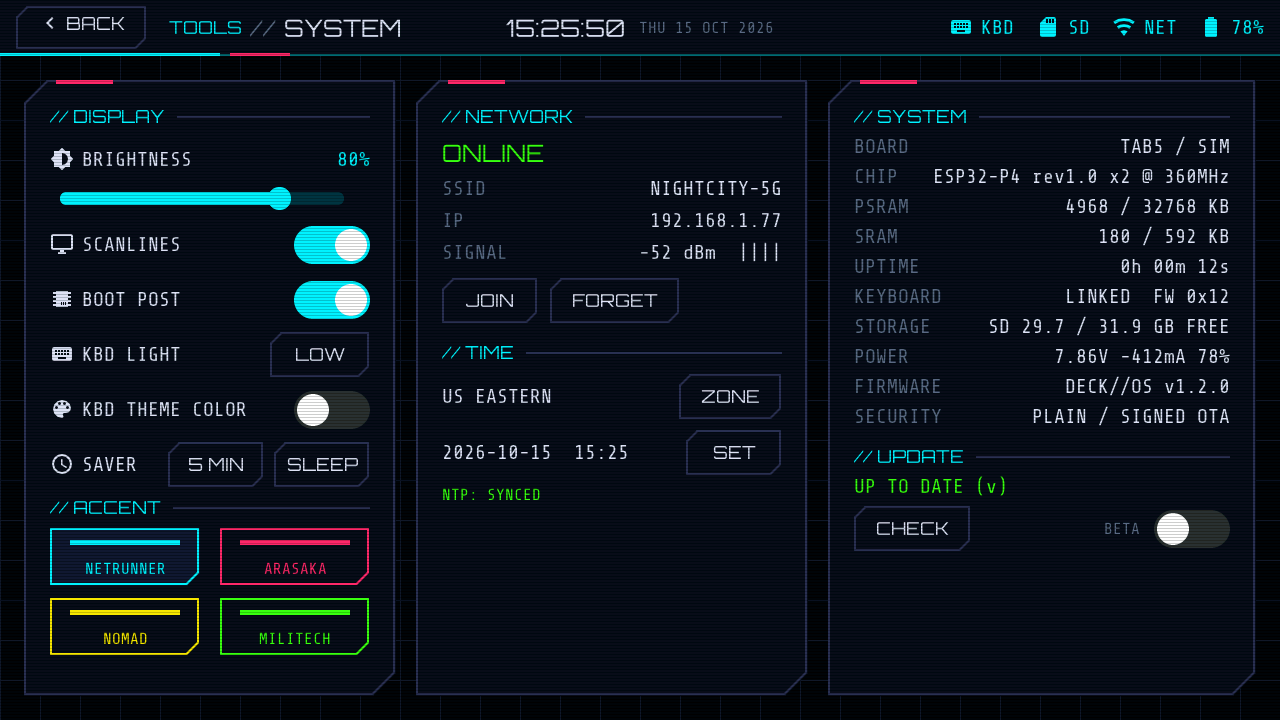
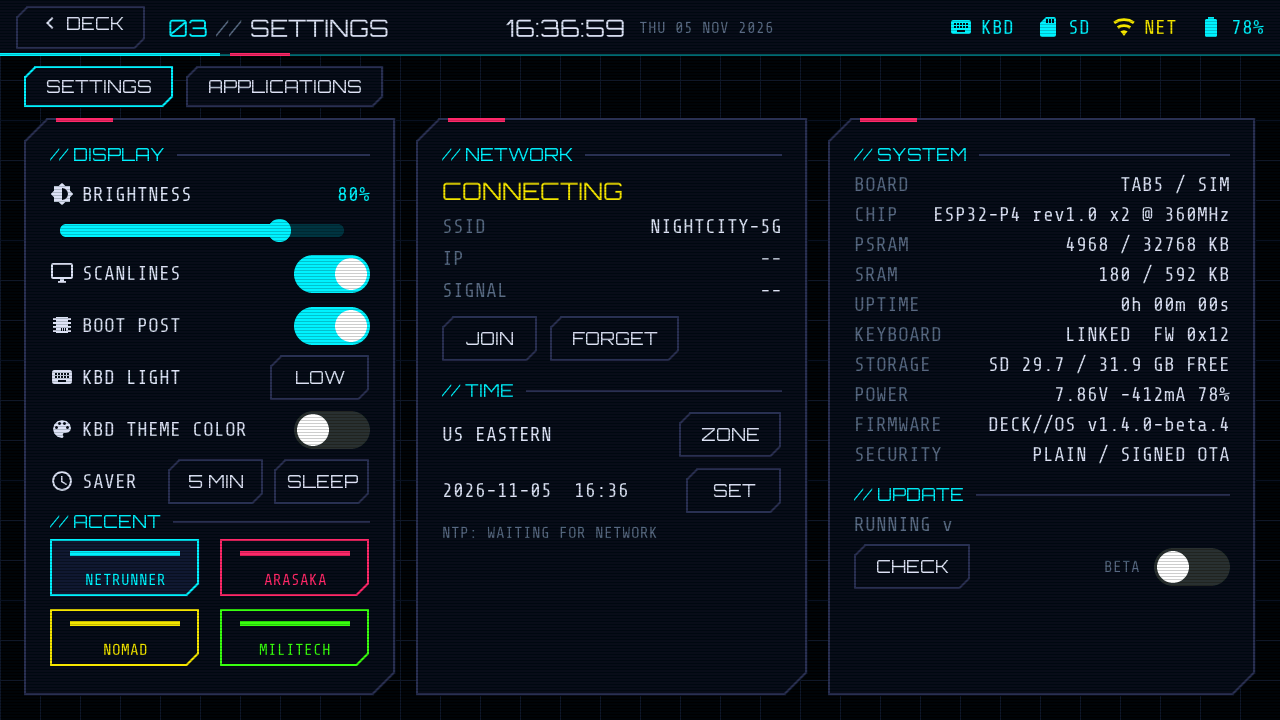
Docs: new home, APPS and APPLICATIONS
README and ROADMAP for v1.5, new screenshots (home, apps, applications,
settings), group screenshots removed, tools/check.sh documented. Sim
screenshots convert with sips, so tools/ppm2png.py goes.

diff --git a/README.md b/README.md
@@ -7,9 +7,9 @@ weather, a music player and a file manager with a LAN portal.
 
 ![Home](docs/screenshots/home.png)
 
-| Boot POST | System module | Scheduled module |
+| Boot POST | Settings | Scheduled module |
 |---|---|---|
-| ![Boot](docs/screenshots/boot.png) | ![System](docs/screenshots/system.png) | ![Offline module](docs/screenshots/module_offline.png) |
+| ![Boot](docs/screenshots/boot.png) | ![Settings](docs/screenshots/system.png) | ![Offline module](docs/screenshots/module_offline.png) |
 
 ## Status: v1.3.0
 
@@ -17,9 +17,22 @@ Seven modules: TERMINAL (SSH and Ollama chat), NOTES (markdown), CALC, WEATHER, 
 (music), FILES (file manager and LAN portal) and SYSTEM. It updates itself over
 Wi-Fi with signed builds and tells you when a new one is out.
 
-**Next (on main): NET TOOLS.** The NET TOOLS tile became a **WIRELESS**
-group holding NET TOOLS, the Tab5's own radio as a toolkit, and RF WATCH, a
-placeholder for the RF Sentinel M5-Bus board. NET TOOLS has four tabs: **SCAN**
+**Next (v1.5): app toggles and a cleaner home.** The home screen is a live
+panel plus six fixed tiles: TERMINAL, NOTES, SETTINGS, CALC, FILES and APPS.
+Tiles carry only an icon, a name and their `Alt+letter`. The panel shows live
+sections from apps that have one (WEATHER today; tap a section to open the
+app). APPS holds the optional apps (WEATHER, PLAYER, NET TOOLS, RF WATCH),
+each in a fixed slot. SETTINGS (formerly SYSTEM) has an **APPLICATIONS** tab
+with a switch per optional app: a switched-off app is greyed in APPS, does no
+background work and ignores its shortcut; tapping its tile opens the switch.
+The first greyed tile carries a quiet "enable in settings" hint.
+
+| Home | APPS | SETTINGS > APPLICATIONS |
+|---|---|---|
+| ![Home](docs/screenshots/home.png) | ![Apps](docs/screenshots/apps.png) | ![Applications](docs/screenshots/applications.png) |
+
+**v1.4: NET TOOLS**, the Tab5's own radio as a toolkit (in APPS), next to
+RF WATCH, a placeholder for the RF Sentinel M5-Bus board. NET TOOLS has four tabs: **SCAN**
 (every access point in earshot, one row per BSSID with channel, security and
 signal, and a chart of the strongest signal on each 2.4 GHz channel), **PING**
 (ping, DNS, traceroute and a TCP port check for a host you type), **LAN** (a
@@ -33,13 +46,8 @@ TOOLS (TERMINAL, CALC, SYSTEM) and FILES & MEDIA (FILES, PLAYER) are groups:
 the tile lists what is inside and opens a screen of the same tiles. NET TOOLS
 arrives in v1.4 (below). NOTES stays a tile of its own, and WEATHER is a
 widget: current temperature, conditions, location and today's range right on
-the home screen, tap for the full forecast. `Alt+1..5` opens a home tile,
-`Alt+T N C W M F S` jumps to a module from anywhere, `Esc` goes back one
-level and the status bar shows the path (`TOOLS // TERMINAL`).
-
-| Home | TOOLS | FILES & MEDIA |
-|---|---|---|
-| ![Home](docs/screenshots/home.png) | ![Tools](docs/screenshots/tools.png) | ![Files & Media](docs/screenshots/media.png) |
+the home screen, tap for the full forecast. (v1.5 replaces the groups with
+the fixed home and APPS above.)
 
 **Obsidian vault sync (v1.3):** NOTES has two sources, LOCAL (the deck's
 own `/notes`) and VAULT (`/vault`, an Obsidian vault kept in sync with
@@ -194,9 +202,9 @@ flash when moving from v0.1.
 
 - Boot POST that reports real hardware state (keyboard, SD, RTC, battery); tap or any key skips it
 - HUD status bar: clock, keyboard link, SD, network, battery
-- Launcher with five large touch tiles, keyboard navigation and a live system ticker
+- Launcher: a live panel and six large touch tiles, optional apps under APPS, keyboard navigation and a live system ticker
 - Glitch transitions, optional CRT scanlines, four accent themes (NETRUNNER, ARASAKA, NOMAD, MILITECH)
-- **SYSTEM** module: brightness, scanlines, boot sequence, accent, RTC clock setting, live hardware readout
+- **SETTINGS** module: an APPLICATIONS tab to switch optional apps on and off; brightness, scanlines, boot sequence, accent, RTC clock setting, live hardware readout
 - TERMINAL is a placeholder until v0.7 that show their planned features until their version lands
 
 See [ROADMAP.md](ROADMAP.md) for v0.2 onward.
@@ -205,24 +213,26 @@ See [ROADMAP.md](ROADMAP.md) for v0.2 onward.
 
 | Keys | Action |
 |---|---|
-| `Alt+1..5` | Open home tile 01..05 (a module or a group) |
-| `Alt+T` `N` `C` `W` `M` `F` `S` | Jump to TERMINAL, NOTES, CALC, WEATHER, PLAYER (music), FILES or SYSTEM from anywhere |
+| `Alt+1..6` | Open home tile 01..06 |
+| `Alt+A` | Open APPS |
+| `Alt+T` `N` `S` `C` `F` | Jump to TERMINAL, NOTES, SETTINGS, CALC or FILES from anywhere |
+| `Alt+W` `M` `R` `X` | Jump to WEATHER, PLAYER (music), NET TOOLS or RF WATCH, while switched on |
 | `Alt+Esc` | Return to the deck from anywhere (reserved for when SSH owns `Esc`) |
-| `Alt+0`, tap the clock, or SYSTEM > SAVER > SLEEP | Sleep the screen (backlight and keyboard light off); any key or touch wakes it |
-| (idle) | After SYSTEM > SAVER minutes (default 5) a drifting clock takes over, dimmed; 10 minutes later the screen sleeps. Any key or touch wakes it |
+| `Alt+0`, tap the clock, or SETTINGS > SAVER > SLEEP | Sleep the screen (backlight and keyboard light off); any key or touch wakes it |
+| (idle) | After SETTINGS > SAVER minutes (default 5) a drifting clock takes over, dimmed; 10 minutes later the screen sleeps. Any key or touch wakes it |
 | `Alt+H`, or tap the hint on the home screen | List every shortcut |
-| `Alt+P` | Pause or resume music from anywhere |
-| `Esc` or `Del` | Back / close, or up one level (a module to its group, a group to the deck) if the module does not use it. `Del` still deletes inside a text field, and deletes the selected item in NOTES, FILES and TERMINAL |
-| `Left` `Right` `Enter`, or `1..5` | Pick a tile on the home screen or in a group |
+| `Alt+P` | Pause or resume music from anywhere (while PLAYER is on) |
+| `Esc` or `Del` | Back / close, or up one level (an app to APPS, APPS to the deck) if the module does not use it. `Del` still deletes inside a text field, and deletes the selected item in NOTES, FILES and TERMINAL |
+| Arrows, `Enter`, or `1..6` | Pick a tile on the home screen or in APPS |
 | `Tab`, arrows | Move focus inside a module |
 
-Everything is also reachable by touch: tiles, the `< DECK` / `< TOOLS` back button and on-screen controls.
+Everything is also reachable by touch: tiles, panel sections, the `< DECK` back button and on-screen controls.
 
 ## Install from the browser
 
 [**hey-its-brian.github.io/tab5-cyberdeck**](https://hey-its-brian.github.io/tab5-cyberdeck/): plug the
 Tab5 in over USB-C, click INSTALL in Chrome or Edge. After that, updates come
-over Wi-Fi (SYSTEM > UPDATE).
+over Wi-Fi (SETTINGS > UPDATE).
 
 ![Web flasher](docs/screenshots/web_flasher.png)
 
@@ -232,7 +242,7 @@ over Wi-Fi (SYSTEM > UPDATE).
   NVS). On its first boot, v0.7.1 or later generates a random key, burns it into
   one free eFuse key block, and moves the existing settings over. This is the
   only eFuse change. It does not restrict flashing, and if anything goes wrong the deck
-  falls back to plain settings rather than failing to boot. SYSTEM > SECURITY
+  falls back to plain settings rather than failing to boot. SETTINGS > SECURITY
   shows which mode is active.
 - **Updates are signed.** A deck running a signed build only installs
   over-the-air updates signed with the same key (RSA-3072). Nothing is
@@ -311,7 +321,17 @@ Headless mode renders scripted screenshots on a virtual clock:
 `--key MS:SPEC` (e.g. `esc`, `enter`, `left`, `a`, `alt+2`, `ctrl+s`), `--tap MS:X,Y` and
 `--shot MS:FILE.ppm` can repeat; `--set KEY=VALUE` seeds a setting (for example
 `--set wx_name=Raleigh --set wx_lat=35.78 --set wx_lon=-78.64` gives the WEATHER
-widget a location). Convert with `sips -s format png in.ppm --out out.png`.
+widget a location), `--stub-apps N` adds placeholder optional apps to check
+the APPS grid, and `--realtime` runs on the wall clock (for real network
+fetches). Convert with `sips -s format png in.ppm --out out.png`.
+
+Every check that needs no hardware runs in one command, printing one line per
+stage and PASS or FAIL (full output in `sim/build/check.log`):
+
+```bash
+tools/check.sh             # simulator build and host unit tests
+tools/check.sh --firmware  # also builds the ESP-IDF firmware
+```
 
 The portal's browser side runs on the Mac too: `tools/portal_mock.py` serves
 the real page backed by `sim/sdcard` at `http://127.0.0.1:8080` (PIN `271828`,

diff --git a/ROADMAP.md b/ROADMAP.md
@@ -164,6 +164,16 @@ Home screen first, then the two modules, one at a time.
 - [x] Memory: LVGL widgets, parsed JSON and the sync's connection no longer starve internal RAM (one kept TLS connection, 40 KB sync stack, allocators on PSRAM)
 - [x] Del doubles as a back key
 
+## v1.5: App toggles and a cleaner home
+
+- [x] Apps are core (TERMINAL, NOTES, SETTINGS, CALC, FILES) or optional (WEATHER, PLAYER, NET TOOLS, RF WATCH); an optional app's on/off state is saved as `app_<id>`, and a switched-off app runs no background work and ignores its shortcut
+- [x] Home: a live panel (sections from enabled apps, WEATHER today) and six fixed tiles with just an icon, a name and the Alt+letter; the status bar, grid, header and ticker stay as they were
+- [x] APPS: every optional app in a fixed slot (3x2, or 4x3 past six); switched-off apps greyed, the first one with a quiet "enable in settings" hint; tapping a greyed tile opens its switch
+- [x] SETTINGS (was SYSTEM): SETTINGS | APPLICATIONS tabs, a switch per optional app, CORE apps listed
+- [x] Shortcuts: Alt+1..6 for the home tiles, Alt+A for APPS, RF WATCH moves to Alt+X
+- [x] `tools/check.sh`: simulator build and host unit tests (and optionally the firmware) in one command
+- [ ] Checkpoint on hardware: toggle each optional app; WEATHER stops fetching, PLAYER stops the music and its indicator; toggles survive a reboot; an update from v1.4 keeps every app on
+
 ## Next: Startup sound
 
 - A short boot chime through the speaker (or headphones) while the POST runs, stored as a small embedded clip and played by the audio driver
